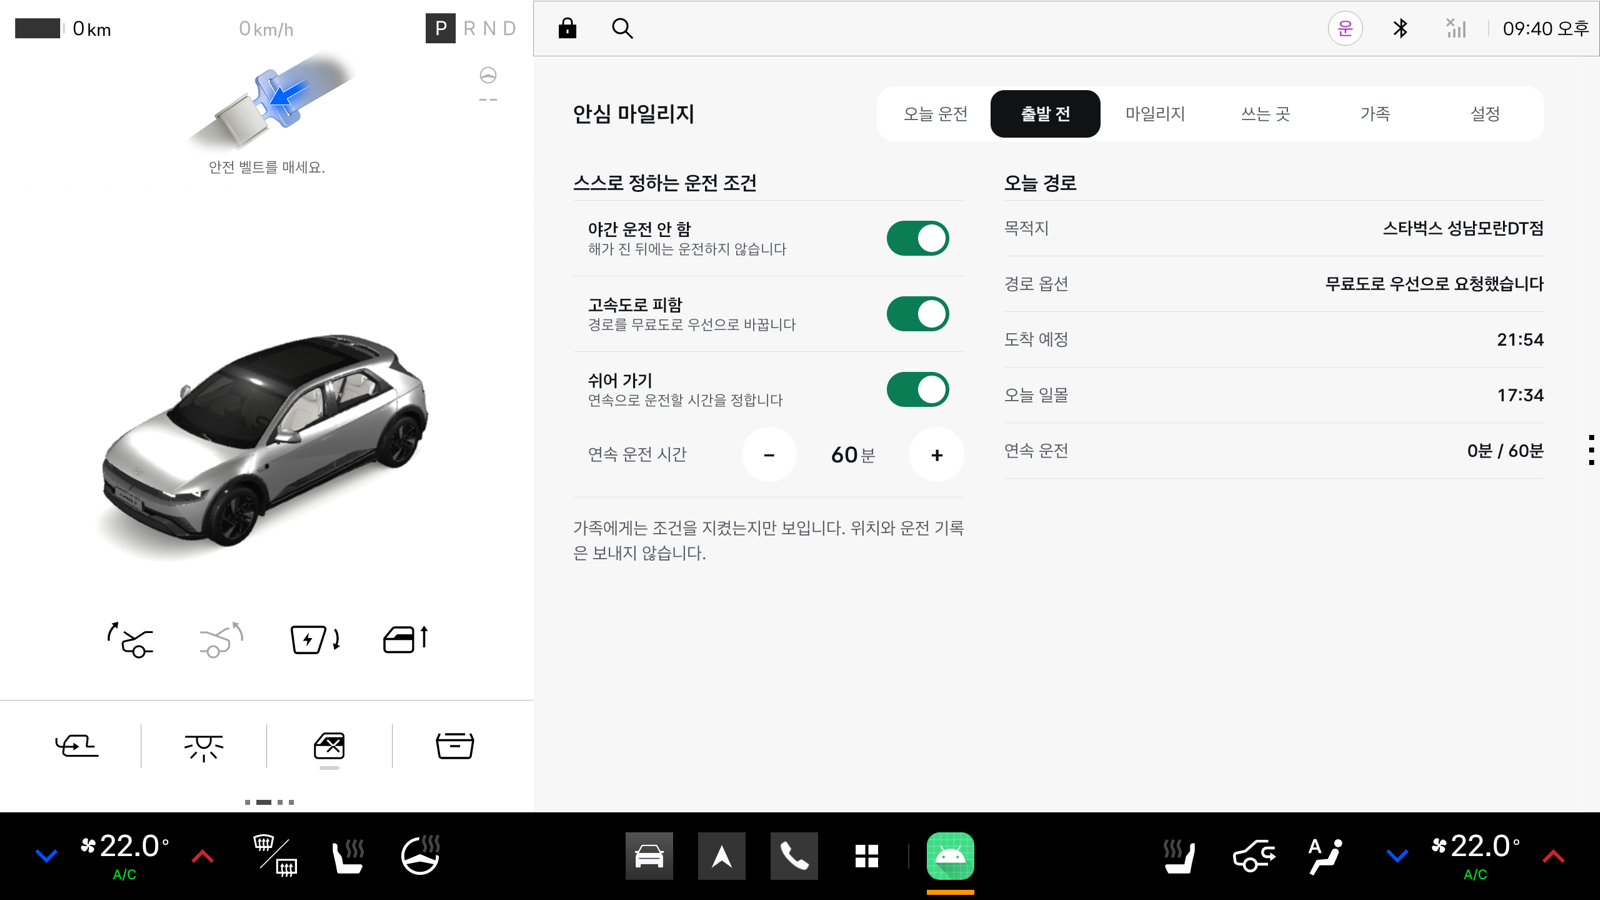
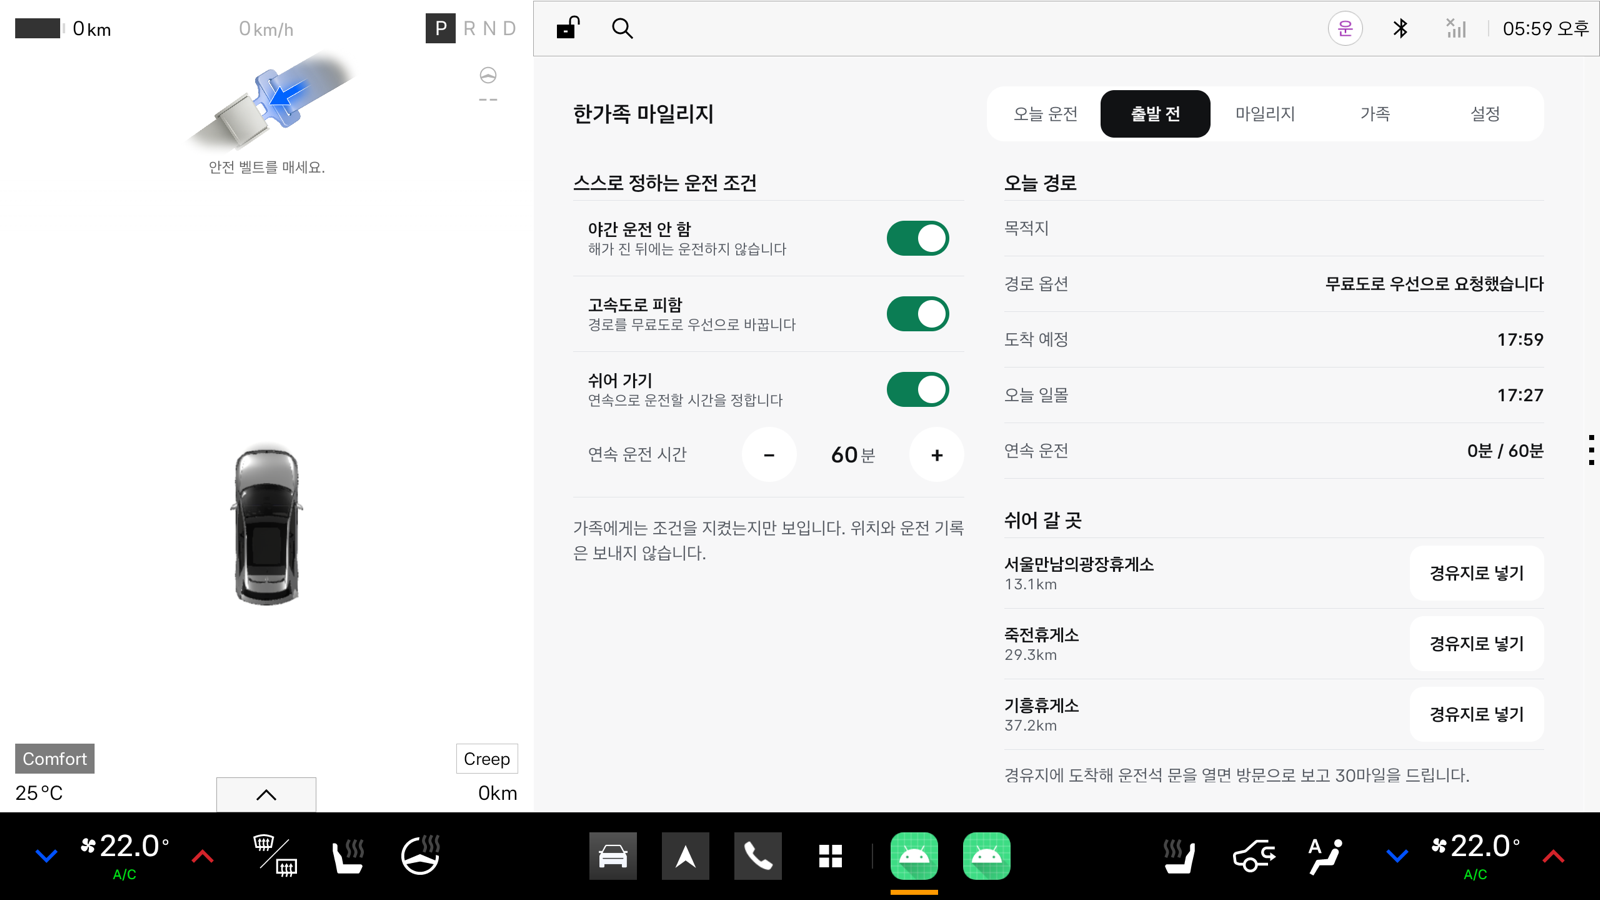
README에 안전벨트 규칙과 탭 변경 반영

diff --git a/README.md b/README.md
@@ -11,7 +11,7 @@
 ![Platform](https://img.shields.io/badge/Pleos_Connect-AAOS_14-0B7D54?style=flat-square)
 ![Kotlin](https://img.shields.io/badge/Kotlin-2.2-7F52FF?style=flat-square&logo=kotlin&logoColor=white)
 ![Jetpack Compose](https://img.shields.io/badge/Jetpack_Compose-BOM_2026.09-4285F4?style=flat-square&logo=jetpackcompose&logoColor=white)
-![Tests](https://img.shields.io/badge/unit_tests-25_passed-0B7D54?style=flat-square)
+![Tests](https://img.shields.io/badge/unit_tests-27_passed-0B7D54?style=flat-square)
 ![Offline](https://img.shields.io/badge/서버-없이_동작-555A62?style=flat-square)
 
 [APK 받기](apk/Drivoice_한가족마일리지_release.apk) | [시연 영상](.github/readme/demo.mp4) | [설치와 실행](#설치와-실행) | [시연 순서](#시연-순서)
@@ -35,13 +35,13 @@
 | 항목 | 내용 |
 |---|---|
 | 사용자 | 현대차, 기아를 타는 가족. 초보부터 장년까지 운전자 전원 |
-| 적립 | 회전 깜빡이, 주행 거리, 운전 약속, 쉬어 가기, 가족 결합 추가 적립 |
-| 감점 | 과속, 급제동, 깜빡이 놓침. 주간 100점에서 깎고, 쌓인 마일리지는 깎지 않습니다 |
-| 화면 | 9개 (동의, 운전 조건, 출발 전, 오늘 운전, 마일리지, 쓰는 곳, 가족, 설정, 주행 중) |
-| 쓰는 곳 | 다음 차 구매, 현대카드 M포인트, 블루멤버스, 블루핸즈 정비, E-pit 충전, 보험 특약 (제휴 협의 전) |
+| 적립 | 전 좌석 안전벨트, 회전 깜빡이, 주행 거리, 운전 약속, 쉬어 가기, 가족 결합 추가 적립 |
+| 감점 | 과속, 급제동, 깜빡이 놓침, 주행 중 벨트 풀림. 주간 100점에서 깎고, 쌓인 마일리지는 깎지 않습니다 |
+| 화면 | 탭 5개(오늘 운전, 출발 전, 마일리지, 가족, 설정)와 동의, 주행 중 화면 |
+| 쓰는 곳 | 다음 차 구매, 현대카드 M포인트, 블루멤버스, 블루핸즈 정비, E-pit 충전, 보험 특약 (제휴 협의 전, 앱 화면에는 두지 않음) |
 | 사용 SDK | Pleos Vehicle, NaviHelper, TextToSpeech, SpeechToText, AAOS Car API |
 | 저장 | 기기 안 파일 하나. 서버 없이 동작합니다. 다른 가족의 점수는 서버를 잇기 전이라 예시입니다 |
-| 검증 | 단위 테스트 25건 통과, 에뮬레이터에서 급제동 감점과 결합 추가 적립까지 확인 |
+| 검증 | 단위 테스트 27건 통과, 에뮬레이터에서 급제동 감점과 결합 추가 적립까지 확인 |
 
 <br>
 
@@ -90,14 +90,21 @@
 | 과속 | 제한속도보다 20km/h 넘게 3초 이상. 넘은 구간 하나를 1번으로 셈 | 5 | 차속(`PERF_VEHICLE_SPEED`), 제한속도(NaviHelper) |
 | 급제동 | 브레이크를 밟은 채 초당 11km/h 넘게 감속 | 3 | 브레이크 페달(Vehicle), 차속 |
 | 깜빡이 놓침 | 회전 전에 켜지 않음 | 3 | 방향지시등(Vehicle), 회전 안내(NaviHelper) |
+| 벨트 풀림 | 달리는 중에 사람이 앉은 좌석의 벨트가 풀림 | 5 | 좌석별 안전벨트, 좌석 착석(Vehicle Seat) |
+
+### 전 좌석 안전벨트
+
+운전석, 조수석, 뒷좌석 3석의 안전벨트와 착석 여부를 좌석마다 받습니다. 운전 한 번 내내 사람이 앉은 모든 좌석이 벨트를 매고 있으면 10마일, 동승자가 있으면 좌석당 5마일을 더 줍니다. 깜빡이와 과속이 운전자 한 사람의 습관이라면, 안전벨트는 뒷좌석의 아이와 부모님까지 함께 챙겨야 쌓입니다.
+
+출발할 때부터 벨트를 매지 않은 좌석이 있으면 이 적립만 받지 못하고, 달리던 중에 벨트를 풀어야 감점됩니다. Pleos 에뮬레이터의 Virtual Console에는 벨트를 매는 조작이 없어 모든 좌석이 '안 맴'으로 들어오므로, 에뮬레이터 시연에서는 벨트 적립과 감점 모두 생기지 않습니다.
 
 깜빡이 없는 차로 변경은 Pleos SDK가 차선 정보를 주지 않아 아직 판정하지 않습니다.
 
 ### 출발 전에 정하는 운전 조건
 
-<img src=".github/readme/03-before.png" width="100%" alt="출발 전 탭. 야간 운전 안 함, 고속도로 피함, 쉬어 가기 스위치와 연속 운전 시간 60분, 오른쪽에 오늘 경로와 일몰 시각">
+<img src=".github/readme/03-before.png" width="100%" alt="출발 전 탭. 야간 운전 안 함, 고속도로 피함, 쉬어 가기 스위치와 연속 운전 시간 60분, 오른쪽에 오늘 경로와 일몰 시각, 그 아래 휴게소 세 곳의 경유지로 넣기 버튼">
 
-야간 운전 안 함, 고속도로 피함, 쉬어 가기(30~120분, 10분 단위) 세 가지 중에서 운전자가 직접 고릅니다. 고속도로 피함을 켜고 목적지를 정하면 내비에 무료도로 우선 경로를 요청합니다. 오른쪽에는 목적지, 도착 예정 시각, 오늘 일몰 시각을 함께 보여 줘서, 해가 지기 전에 도착할 수 있는지 출발 전에 판단할 수 있습니다. 일몰 시각은 NOAA 계산식으로 기기 안에서 구합니다.
+야간 운전 안 함, 고속도로 피함, 쉬어 가기(30~120분, 10분 단위) 세 가지 중에서 운전자가 직접 고릅니다. 고속도로 피함을 켜고 목적지를 정하면 내비에 무료도로 우선 경로를 요청합니다. 오른쪽에는 목적지, 도착 예정 시각, 오늘 일몰 시각을 함께 보여 줘서, 해가 지기 전에 도착할 수 있는지 출발 전에 판단할 수 있습니다. 일몰 시각은 NOAA 계산식으로 기기 안에서 구합니다. 그 아래 쉬어 갈 휴게소 목록에서 "경유지로 넣기"를 누르면 내비 경로에 경유지로 들어가고, 도착해 운전석 문을 열면 방문으로 보고 30마일을 줍니다.
 
 ### 정차 후 요약
 
@@ -111,24 +118,20 @@
 
 적립 내역은 날짜별로 묶어 보여 줍니다. 등급은 그린, 실버, 골드 세 단계이고, 다음 등급까지 남은 마일과 조건을 한 줄로 적었습니다. 같은 운전이 두 번 적립되지 않도록 거래마다 고유 번호를 붙입니다.
 
-### 쓰는 곳과 쉬어 갈 곳
+### 마일리지를 쓰는 곳
 
-<img src=".github/readme/06-uses.png" width="100%" alt="쓰는 곳 탭. 다음 차 구매, 현대카드 M포인트 연동, 블루멤버스 포인트 전환, 블루핸즈 정비, E-pit 충전, 보험 안전 운전 특약과 휴게소 세 곳의 경유지로 넣기 버튼">
-
-마일리지는 차를 사고, 고치고, 충전하고, 보험에 드는 곳에서 씁니다. 지금은 사용처마다 "제휴 협의 중"으로 표시합니다.
+마일리지는 차를 사고, 고치고, 충전하고, 보험에 드는 곳에서 쓰는 것을 목표로 합니다(제휴 협의 전). 앱 화면에는 사용처 탭을 두지 않았습니다.
 
 | 사용처 | 쓰는 방식 |
 |---|---|
 | 다음 차 구매 | 현대차, 기아 새 차를 살 때 차 값에서 현금처럼 뺍니다 |
-| 현대카드 M포인트 연동 | 운전 마일리지를 M포인트로 옮겨 카드 포인트와 합칩니다. 장 보며 쌓은 포인트와 운전하며 쌓은 마일리지가 한 지갑에 모입니다 |
-| 블루멤버스 포인트 전환 | 블루멤버스 포인트로 바꿔 멤버십 혜택에 씁니다 |
-| 블루핸즈 정비 | 엔진오일 교환 같은 정비 결제 때 뺍니다 |
+| 현대카드 M포인트 연동 | 운전 마일리지를 M포인트로 옮겨 카드 포인트와 합칩니다 |
+| 블루멤버스 포인트 전환 | 블루멤버스 패밀리 멤버십 포인트로 바꿉니다 |
+| 블루핸즈 정비 | 정비 결제 때 뺍니다 |
 | E-pit 충전 | 전기차 충전 요금에서 뺍니다 |
-| 보험 안전 운전 특약 | 마일리지 등급을 특약 할인 근거로 냅니다 |
+| 보험 안전 운전 특약 | 안전 점수를 특약 할인 근거로 냅니다 |
 
-마일리지는 차가 아니라 사람에게 쌓입니다. 차를 바꿔도 현대차나 기아 차를 고르면 그동안 쌓은 마일리지와 등급이 그대로 이어지고, 그 마일리지를 새 차 값에 보탤 수 있습니다. 매일 하는 운전이 다음 차를 고를 이유가 됩니다.
-
-오른쪽 휴게소 목록에서 "경유지로 넣기"를 누르면 내비 경로에 경유지로 들어가고, 도착해 운전석 문을 열면 방문으로 보고 30마일을 줍니다.
+마일리지는 차가 아니라 사람에게 쌓입니다. 차를 바꿔도 현대차나 기아 차를 고르면 마일리지와 등급이 그대로 이어집니다.
 
 ### 가족 지갑
 
@@ -157,6 +160,7 @@
 | 7일 연속 | 조건 지킨 날이 7일 이어짐 | 100 |
 | 쉬어 가기 | 30분 이상, 정한 시간 안에 달린 뒤 10분 이상 쉼 | 회당 10 |
 | 제휴처 방문 | 경유지 도착 뒤 10분 안에 운전석 문을 엶 | 30 |
+| 전 좌석 안전벨트 | 운전 내내 앉은 모든 좌석이 벨트를 맴 | 10, 동승 좌석당 5 |
 | 가족 결합 | 결합 차량 2대 10%, 3대 20%, 4대 이상 30% | 그 운전 적립에 더함 |
 
 하루 상한은 300마일이고 제휴처 방문과 가족 결합 추가분은 상한에서 뺍니다. 실버는 누적 3,000마일과 최근 30일 깜빡이 준수율 90% 이상, 골드는 누적 10,000마일과 최근 90일 조건 준수율 95% 이상입니다.
@@ -194,7 +198,7 @@ Pleos 디자인 가이드의 값을 그대로 토큰으로 옮겼습니다(`ui/T
 | 모션 | 쓰는 곳 |
 |---|---|
 | 자릿수별로 굴러가는 숫자 | 오늘 쌓인 마일리지, 잔액. 자리마다 40ms씩 늦게 출발합니다 |
-| 미끄러지는 선택 표시 | 상단 탭 6개. 선택 표시가 다음 탭으로 이동합니다 |
+| 미끄러지는 선택 표시 | 상단 탭 5개. 선택 표시가 다음 탭으로 이동합니다 |
 | 순차 등장 | 탭을 열면 항목이 40ms 간격으로 위에서부터 나타납니다 |
 | 즉시 정지 | 주행 중이 되면 진행 중인 모션도 바로 끝 상태로 바뀝니다 |
 
@@ -312,7 +316,7 @@ flowchart LR
 
 | 항목 | 결과 |
 |---|---|
-| 단위 테스트 | 25건 통과. 내비 회전 판정 7건, 내비 없는 회전 4건, 마일리지, 결합, 점수, 일몰 계산 13건, 기본 1건 |
+| 단위 테스트 | 27건 통과. 내비 회전 판정 7건, 내비 없는 회전 4건, 마일리지, 결합, 점수, 안전벨트, 일몰 계산 15건, 기본 1건 |
 | 에뮬레이터 주행 | 회전 3번 중 2번 제때 켬, 주행 12km. 오늘 +154마일(회전 10, 거리 24, 조건 지킨 날 20, 7일 연속 100) |
 | 음성 | 정차 후 요약 음성, 쉬어 가기 질문과 8초 응답 대기 |
 | 내비 연동 | 회전 안내, 목적지, 도착 예정 시각 수신. 무료도로 우선 요청이 내비에 도착 |
